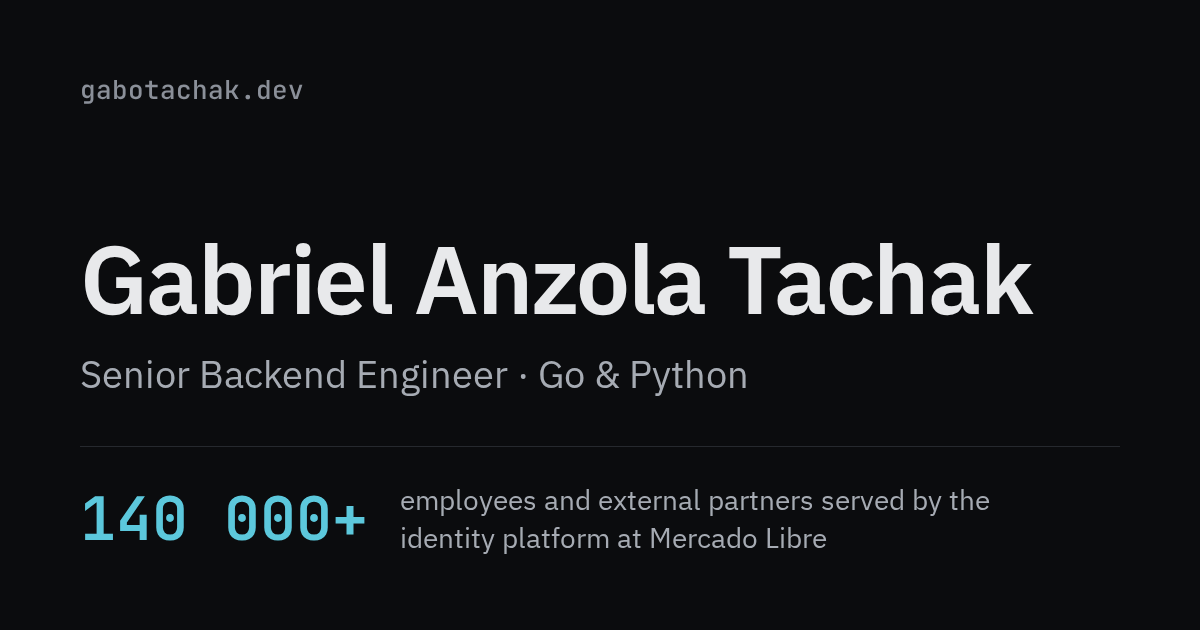
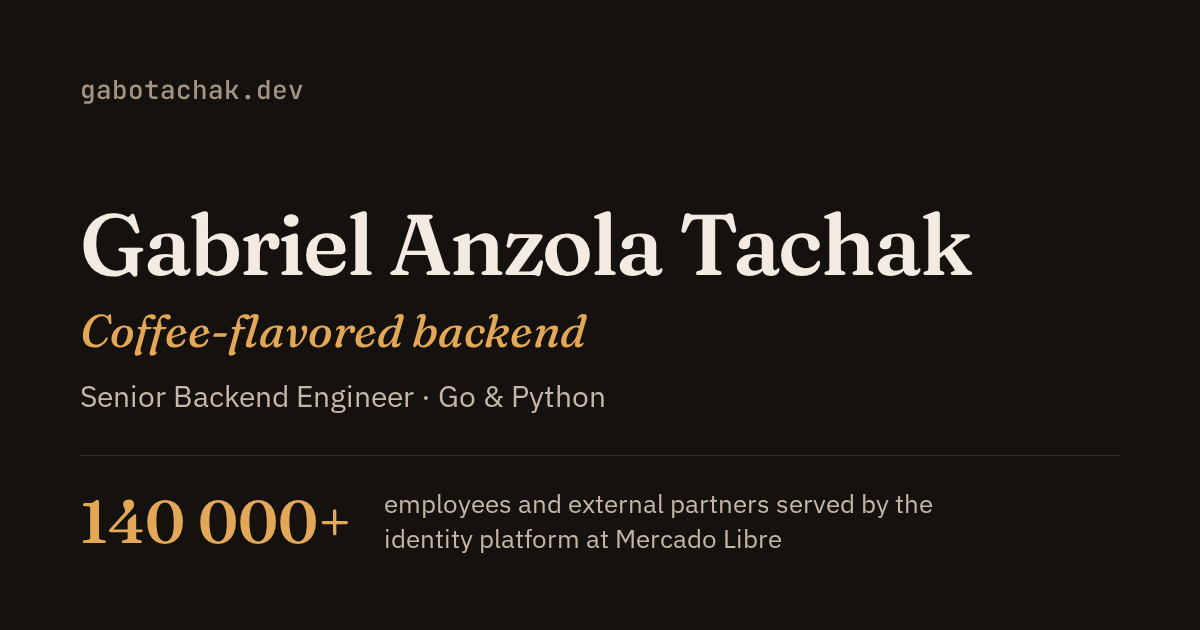
Give the portfolio a warm visual identity
Roast palette (dark and light), Fraunces for display, recovered
"Coffee-flavored backend" tagline with inline SVG cup and Colombian
flag, two-column hero with a 220px photo, larger proof figures, lead
case study, surface band for Stack, full-bleed Contact band. New OG
images and favicon colors.

Claude-Session: https://claude.ai/code/session_01RbhGR51jV5ABeogTZdsktt

diff --git a/src/styles/global.css b/src/styles/global.css
@@ -2,6 +2,7 @@
 
 @theme {
   --font-sans: "IBM Plex Sans Variable", ui-sans-serif, system-ui, -apple-system, "Segoe UI", Roboto, sans-serif;
+  --font-display: "Fraunces Variable", ui-serif, Georgia, "Times New Roman", serif;
   --font-mono: "JetBrains Mono Variable", ui-monospace, SFMono-Regular, Menlo, Consolas, monospace;
 }
 
@@ -11,24 +12,26 @@
 :root {
   color-scheme: dark;
 
-  --bg:      #0b0c0e;
-  --surface: #121417;
-  --border:  #26292e;
-  --text:    #e8e9eb;
-  --text-2:  #a6abb3;
-  --text-3:  #8b9099;
-  --accent:  #5cc8dc;
-  --ok:      #4cc38a;
+  --bg:      #15110e;
+  --surface: #1e1814;
+  --border:  #352b24;
+  --text:    #f3ebe1;
+  --text-2:  #c4b7a8;
+  --text-3:  #a39485;
+  --accent:  #e3a857;
+  --ok:      #9ccb8a;
 
   --accent-strong: color-mix(in srgb, var(--accent) 78%, var(--text));
   --nav-bg:        color-mix(in srgb, var(--bg) 86%, transparent);
+  --band:          color-mix(in srgb, var(--accent) 11%, var(--bg));
 
   --fs-label: 0.75rem;
   --fs-meta:  0.875rem;
   --fs-body:  1rem;
   --fs-lede:  1.25rem;
-  --fs-h2:    1.75rem;
-  --fs-h1:    clamp(2.5rem, 6vw, 3.5rem);
+  --fs-h2:    clamp(2rem, 5vw, 2.75rem);
+  --fs-h1:    clamp(2.5rem, 7vw, 3.5rem);
+  --fs-hero:  clamp(2.75rem, 7vw, 4.5rem);
 
   --header-h: 4rem;
   --radius:   6px;
@@ -38,26 +41,26 @@
 html.light {
   color-scheme: light;
 
-  --bg:      #fafafa;
-  --surface: #ffffff;
-  --border:  #e2e4e8;
-  --text:    #15171a;
-  --text-2:  #4a4f57;
-  --text-3:  #646a73;
-  --accent:  #006b82;
-  --ok:      #14794f;
+  --bg:      #f8f3ea;
+  --surface: #fffdf8;
+  --border:  #e3d8c8;
+  --text:    #241a13;
+  --text-2:  #5b4c40;
+  --text-3:  #75655a;
+  --accent:  #a4481f;
+  --ok:      #2f6b3f;
 }
 
 @media (prefers-contrast: more) {
   :root {
-    --border: #8b9099;
-    --text-2: #c4c8cf;
-    --text-3: #b0b5bd;
+    --border: #8e7f71;
+    --text-2: #dccfc0;
+    --text-3: #c9bcad;
   }
   html.light {
-    --border: #6b7078;
-    --text-2: #2e3238;
-    --text-3: #3d424a;
+    --border: #7a6a5d;
+    --text-2: #3b2d23;
+    --text-3: #4a3b30;
   }
 }
 
@@ -93,6 +96,7 @@ body {
   line-height: 1.15;
   text-wrap: balance;
 }
+:where(h1, h2) { font-family: var(--font-display); font-weight: 560; }
 :where(h1) { font-size: var(--fs-h1); letter-spacing: -0.02em; line-height: 1.08; }
 :where(h3) { font-size: var(--fs-lede); line-height: 1.3; }
 :where(p) { margin: 0; max-width: var(--measure); text-wrap: pretty; }
@@ -118,10 +122,14 @@ body {
 /* <section class="section"><div class="container">…</div></section> */
 .section { padding-block: clamp(4rem, 8vw, 6rem); }
 
+/* Full-bleed surface band, to break the page rhythm. */
+.band-surface { background: var(--surface); border-block: 1px solid var(--border); }
+
 .section-title {
   font-size: var(--fs-h2);
-  font-weight: 600;
-  line-height: 1.2;
+  font-weight: 560;
+  line-height: 1.1;
+  letter-spacing: -0.015em;
   margin-bottom: clamp(1.5rem, 3vw, 2.5rem);
 }
 
@@ -280,8 +288,9 @@ body {
     --text: #000000;
     --text-2: #222222;
     --text-3: #444444;
-    --accent: #00566a;
-    --ok: #00566a;
+    --accent: #7a3410;
+    --ok: #1f5a2e;
+    --band: #ffffff;
   }
   html { scroll-padding-top: 0; }
   body { font-size: 11pt; line-height: 1.45; }

diff --git a/src/i18n/translations.ts b/src/i18n/translations.ts
@@ -8,6 +8,7 @@ export const translations = {
     },
     hero: {
       eyebrow: "Senior Backend Engineer · Go & Python",
+      tagline: "Coffee-flavored backend",
       lede: "I build the APIs that decide who can reach what, and I make them fast. Four years on Mercado Libre's identity platform, then backend contracts for The Home Depot US and Compass.",
       availability: "Open to senior backend roles. Remote, full-time or contract.",
       location: "Bogotá, Colombia · UTC−5",
@@ -256,6 +257,7 @@ export const translations = {
     },
     hero: {
       eyebrow: "Ingeniero Backend Senior · Go y Python",
+      tagline: "Backend con sabor a café",
       lede: "Construyo las APIs que deciden quién puede entrar a qué, y las hago rápidas. Cuatro años en la plataforma de identidad de Mercado Libre y después contratos backend para The Home Depot US y Compass.",
       availability: "Abierto a roles backend senior. Remoto, tiempo completo o contrato.",
       location: "Bogotá, Colombia · UTC−5",

diff --git a/README.md b/README.md
@@ -6,7 +6,7 @@ Personal portfolio of Gabriel Anzola Tachak, Senior Backend Engineer. Static sit
 
 - [Astro](https://astro.build) 6, static output, with `@astrojs/sitemap`
 - [Tailwind CSS](https://tailwindcss.com) v4 plus shared tokens and primitives in `src/styles/global.css`
-- Fonts self-hosted through Fontsource: IBM Plex Sans for text, JetBrains Mono for figures and tech lists
+- Fonts self-hosted through Fontsource: Fraunces for headings, the tagline and key figures, IBM Plex Sans for text, JetBrains Mono for tech lists and small labels
 - No UI framework. JavaScript only enhances (theme toggle, mobile menu, active nav link, copy email, Last.fm); the content works without it and prints cleanly.
 
 ## Pages
